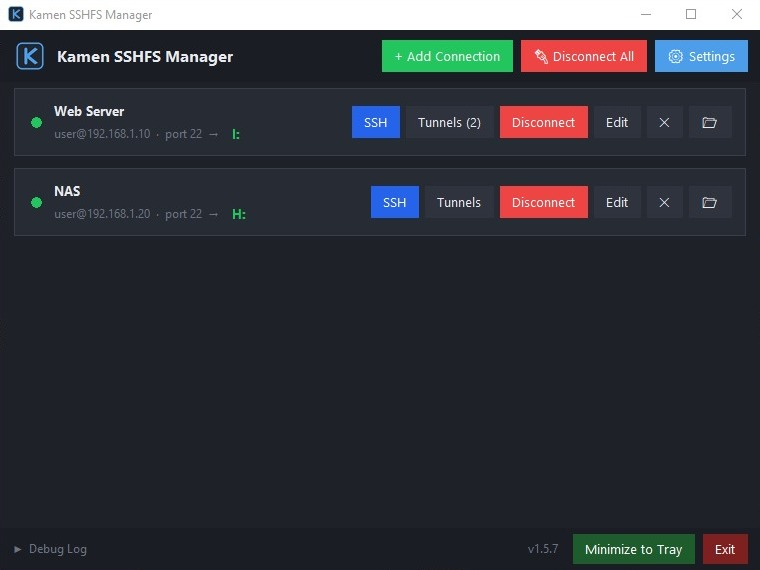
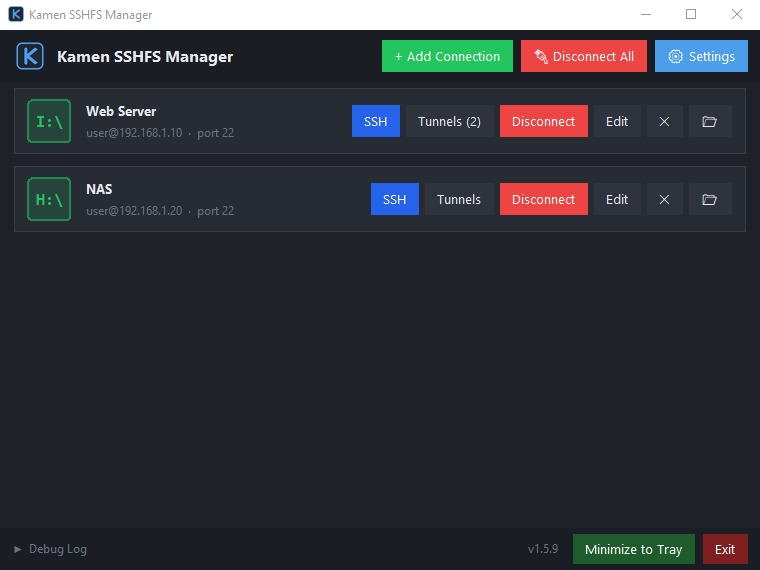
v1.5.9: drive letter tiles, click a tile to open the drive
- Drive letters shown as status-coloured tiles (e.g. I:\) in Consolas
- Click a connected tile to open the drive in Explorer
- Updated README intro and main screenshot

diff --git a/kamen_sshfs_manager.py b/kamen_sshfs_manager.py
@@ -1515,6 +1515,12 @@ def show_centered(win, parent, size=None):
     win.focus_set()
 
 
+def _blend(c1, c2, t):
+    """Mix two #rrggbb colours: t=0 gives c1, t=1 gives c2."""
+    a = [int(c1[i:i + 2], 16) for i in (1, 3, 5)]
+    b = [int(c2[i:i + 2], 16) for i in (1, 3, 5)]
+    return "#" + "".join(f"{round(x + (y - x) * t):02x}" for x, y in zip(a, b))
+
 class Card(tk.Frame):
     def __init__(self, parent, conn, mgr):
         super().__init__(parent, bg=BG_CARD,
@@ -1524,11 +1530,22 @@ class Card(tk.Frame):
         self._build()
         self._refresh()
 
+    TILE = 44
+
     def _build(self):
-        # Dot
-        self.cv = tk.Canvas(self, width=14, height=14, bg=BG_CARD, highlightthickness=0)
-        self.cv.pack(side="left", padx=(14,8), pady=16)
-        self._dot = self.cv.create_oval(2,2,12,12, fill=FG_MUTED, outline="")
+        # Drive letter tile; its colour shows the status
+        t = self.TILE
+        self.cv = tk.Canvas(self, width=t, height=t, bg=BG_CARD, highlightthickness=0)
+        self.cv.pack(side="left", padx=(12, 12), pady=10)
+        r, x0, y0, x1, y1 = 9, 1, 1, t - 1, t - 1
+        pts = [x0 + r, y0, x1 - r, y0, x1, y0, x1, y0 + r, x1, y1 - r, x1, y1,
+               x1 - r, y1, x0 + r, y1, x0, y1, x0, y1 - r, x0, y0 + r, x0, y0]
+        self._tile = self.cv.create_polygon(pts, smooth=True, width=1.5,
+                                            fill=BG_INPUT, outline=BORDER)
+        self._tile_text = self.cv.create_text(t / 2, t / 2, text=self.conn["drive_letter"] + "\\",
+                                              fill=FG_MUTED, font=("Consolas", 13, "bold"))
+        self.cv.bind("<Button-1>", lambda e: self._open())  # click the tile to open the drive
+        Tooltip(self.cv, "Open in Explorer")
 
         # Info
         info = tk.Frame(self, bg=BG_CARD)
@@ -1540,9 +1557,8 @@ class Card(tk.Frame):
         self.lbl_host = mk_label(host_row, self._host_part(), fg=FG_MUTED,
                                  font=FONT_SMALL, anchor="w")
         self.lbl_host.pack(side="left")
-        self.lbl_drive = mk_label(host_row, self.conn["drive_letter"],
-                                  fg=SUCCESS, font=FONT_BOLD, anchor="w")
-        self.lbl_drive.pack(side="left", padx=(2, 0))
+        self.lbl_drive = mk_label(host_row, "", fg=WARNING, font=FONT_SMALL, anchor="w")
+        self.lbl_drive.pack(side="left", padx=(8, 0))  # "not responding" when hung
 
         # Buttons
         bf = tk.Frame(self, bg=BG_CARD)
@@ -1567,7 +1583,7 @@ class Card(tk.Frame):
 
     def _host_part(self):
         c = self.conn
-        return f"{c['user']}@{c['host']}  ·  port {c.get('port', 22)}  →  "
+        return f"{c['user']}@{c['host']}  ·  port {c.get('port', 22)}"
 
     def _refresh(self):
         """Uses the poll worker's cached state; never touches the drive."""
@@ -1584,13 +1600,16 @@ class Card(tk.Frame):
         self._status = status
         dot_colors = {"connected": SUCCESS, "connecting": WARNING, "stopping": WARNING,
                       "hung": WARNING, "disconnected": FG_MUTED, "error": DANGER}
-        self.cv.itemconfig(self._dot, fill=dot_colors.get(status, FG_MUTED))
-        drive = self.conn["drive_letter"]
+        color = dot_colors.get(status, FG_MUTED)
+        self.cv.itemconfig(self._tile, fill=_blend(BG_CARD, color, 0.16),
+                           outline=_blend(BG_CARD, color, 0.6))
+        self.cv.itemconfig(self._tile_text, fill=color, text=self.conn["drive_letter"] + "\\")
+        self.cv.configure(cursor="hand2" if status == "connected" else "")
         if status == "hung":
-            self.lbl_drive.configure(text=f"{drive}  not responding", fg=WARNING)
+            self.lbl_drive.configure(text="not responding")
             self.btn_kill.pack(side="left", padx=3, after=self.btn_con)
         else:
-            self.lbl_drive.configure(text=drive, fg=SUCCESS)
+            self.lbl_drive.configure(text="")
             self.btn_kill.pack_forget()
         if status == "hung":
             self.btn_con.configure(text="Restart", bg=WARNING, fg="white", state="normal")
@@ -1690,7 +1709,7 @@ class Card(tk.Frame):
         self.conn = conn
         self.lbl_name.configure(text=conn["name"])
         self.lbl_host.configure(text=self._host_part())
-        self.lbl_drive.configure(text=conn["drive_letter"])
+        self.cv.itemconfig(self._tile_text, text=conn["drive_letter"] + "\\")
         self._refresh()
 
 

diff --git a/README.md b/README.md
@@ -36,7 +36,7 @@ connections, 2FA support and automatic reconnect.
 - Debug log panel with Copy Log / Clear Log (can be turned off in Settings)
 - Checks for WinFsp and SSHFS-Win on startup and links to the downloads
 - Exit disconnects all drives in the background with a progress window
-- Open a mounted drive in Explorer
+- Open a mounted drive in Explorer by clicking its drive tile (e.g. `I:\`)
 - Live status polling (every 5 s) that can't freeze the app, with
   **Restart** / **Kill** for a drive that stops responding
 - Automatic reconnect when the network drops; one copy of the app at a time
